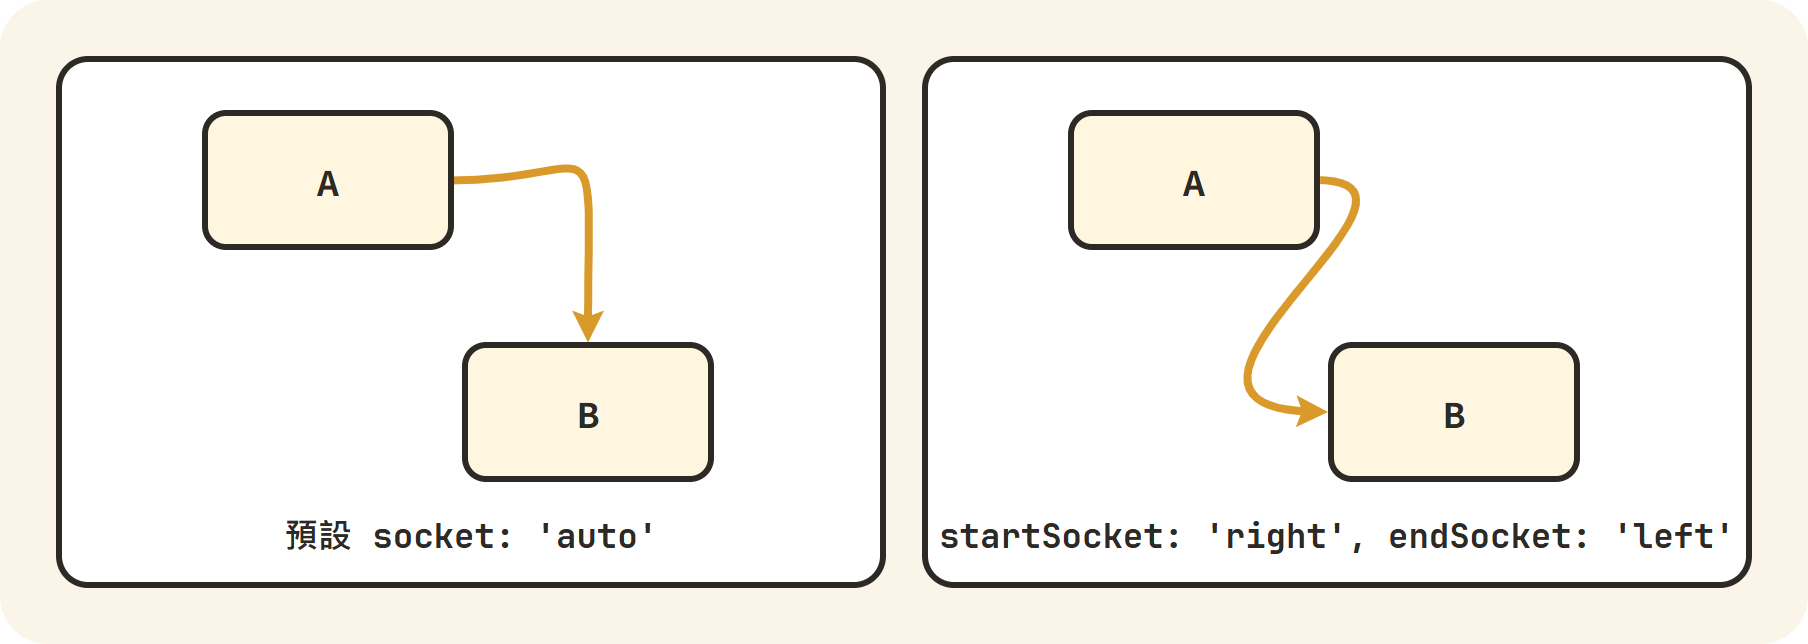
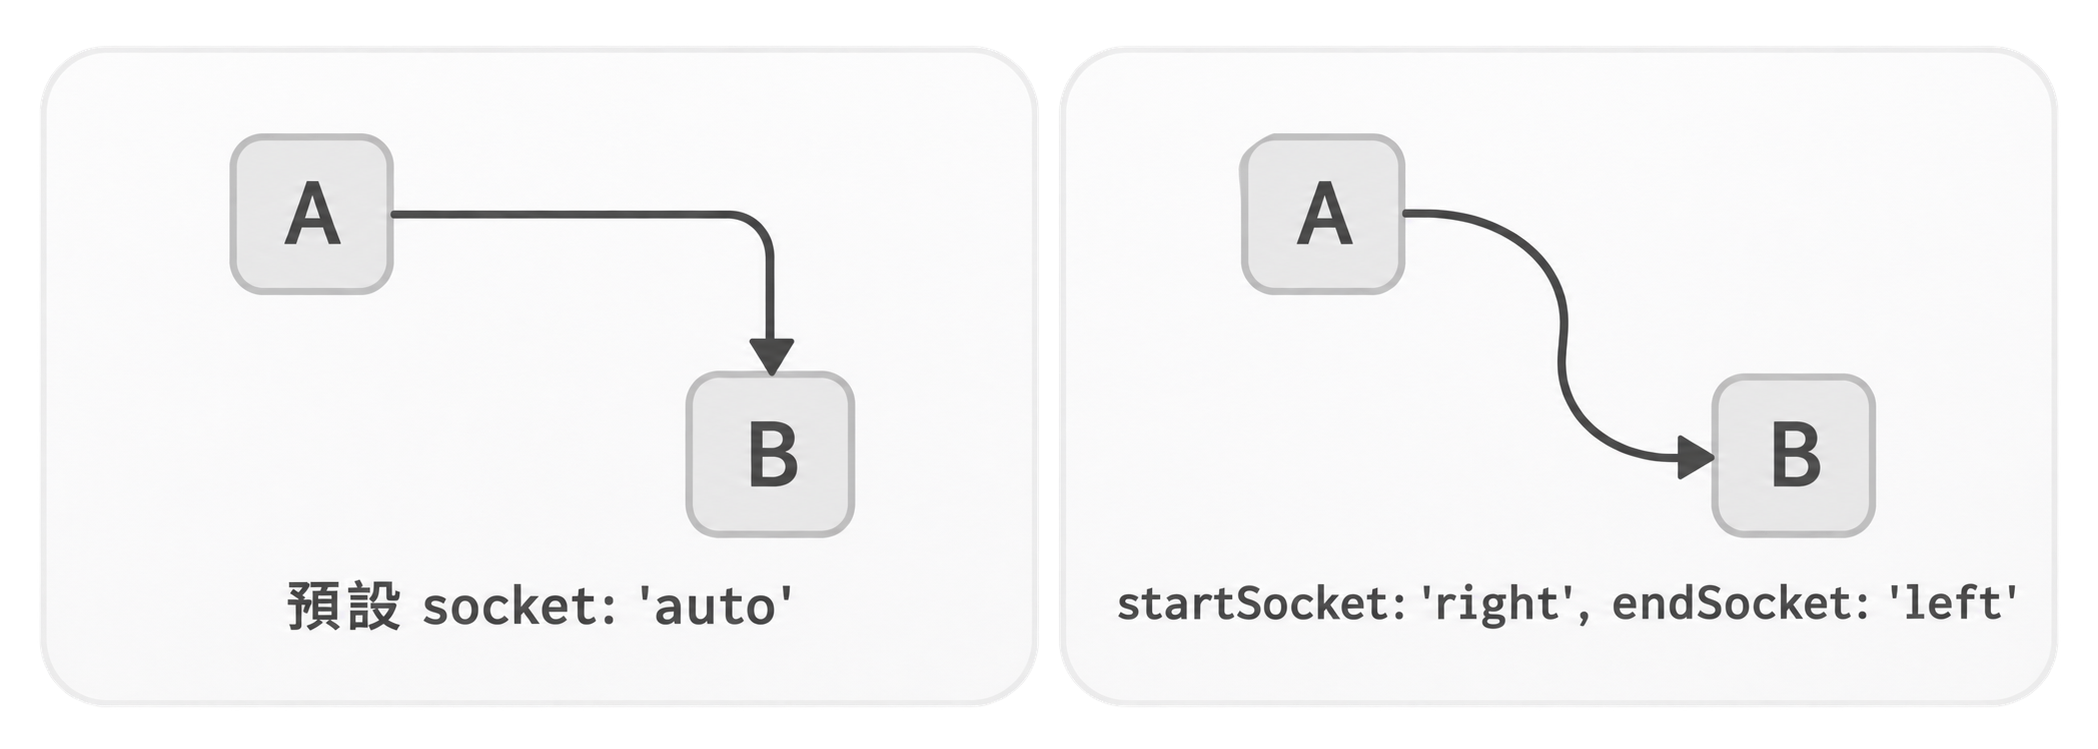
[修改] Leader Line 文章封面、插圖與範例改為黑灰白配色
- 封面與路徑、端點、連接位置三張插圖改為新版風格
- CodePen 範例改用黑灰白配色，示意圖片改用灰階

diff --git a/src/content/posts/leader-line/index.md b/src/content/posts/leader-line/index.md
@@ -130,7 +130,7 @@ new LeaderLine(startElement, endElement, {
       <option>arrow1</option><option>arrow2</option><option>arrow3</option><option>disc</option><option>square</option><option>behind</option><option>hand</option><option>crosshair</option>
     </select>
   </label>
-  <label>color <input type="color" name="color" value="#d99a2b"></label>
+  <label>color <input type="color" name="color" value="#454545"></label>
   <label>size <input type="range" name="size" min="1" max="12" value="4"></label>
 </form>
 <div class="box" id="start" style="left: 40px; top: 110px">拖我</div>
@@ -141,8 +141,9 @@ body {
   margin: 0;
   height: 100vh;
   font-family: system-ui, sans-serif;
-  color: #2d2a26;
-  background: #fbf5e9;
+  color: #454545;
+  background: #f5f5f5;
+  accent-color: #454545;
 }
 
 .panel {
@@ -163,9 +164,9 @@ body {
 .box {
   position: absolute;
   padding: 1rem 1.25rem;
-  border: 3px solid #2d2a26;
+  border: 1px solid #c7c7c7;
   border-radius: 12px;
-  background: #fff6e0;
+  background: #fff;
   font-weight: 700;
   cursor: grab;
   user-select: none;
@@ -372,7 +373,7 @@ new LeaderLine(
     <div class="lineAnchor end"></div>
     <div class="nodeHeader">Source Photo</div>
     <div class="Img">
-      <img src="https://picsum.photos/seed/weave1/600/450" alt="source" />
+      <img src="https://picsum.photos/seed/weave1/600/450?grayscale" alt="source" />
     </div>
     <div class="lineAnchor start"></div>
   </div>
@@ -381,7 +382,7 @@ new LeaderLine(
     <div class="lineAnchor end"></div>
     <div class="nodeHeader">Stable Diffusion</div>
     <div class="Img">
-      <img src="https://picsum.photos/seed/weave2/600/525" alt="model" />
+      <img src="https://picsum.photos/seed/weave2/600/525?grayscale" alt="model" />
     </div>
     <div class="lineAnchor start"></div>
   </div>
@@ -390,7 +391,7 @@ new LeaderLine(
     <div class="lineAnchor end"></div>
     <div class="nodeHeader">Output</div>
     <div class="Img">
-      <img src="https://picsum.photos/seed/weave3/600/450" alt="output" />
+      <img src="https://picsum.photos/seed/weave3/600/450?grayscale" alt="output" />
     </div>
     <div class="lineAnchor start"></div>
   </div>
@@ -402,8 +403,8 @@ body {
   height: 100vh;
   font-family: system-ui, sans-serif;
   background:
-    radial-gradient(circle, #d9d4ca 1px, transparent 1px) 0 0 / 20px 20px,
-    #fbf5e9;
+    radial-gradient(circle, #c7c7c7 1px, transparent 1px) 0 0 / 20px 20px,
+    #f5f5f5;
 }
 
 .nodeConnect {
@@ -412,8 +413,9 @@ body {
   top: var(--top);
   width: 170px;
   border-radius: 14px;
+  border: 1px solid #e6e6e6;
   background: #fff;
-  box-shadow: 0 6px 20px rgba(0, 0, 0, 0.08);
+  box-shadow: 0 6px 20px rgba(146, 146, 146, 0.15);
   cursor: grab;
   user-select: none;
 }
@@ -422,7 +424,7 @@ body {
   padding: 0.6rem 0.8rem;
   font-size: 0.85rem;
   font-weight: 700;
-  color: #2d2a26;
+  color: #454545;
 }
 
 .Img img {
@@ -526,7 +528,7 @@ document.querySelectorAll(".nodeConnect").forEach((card) => {
   <div class="lineAnchor end"></div>
   <div class="nodeHeader">Source Photo</div>
   <div class="Img">
-    <img src="https://picsum.photos/seed/weave1/600/450" alt="source" />
+    <img src="https://picsum.photos/seed/weave1/600/450?grayscale" alt="source" />
   </div>
   <div class="lineAnchor start"></div>
 </div>
